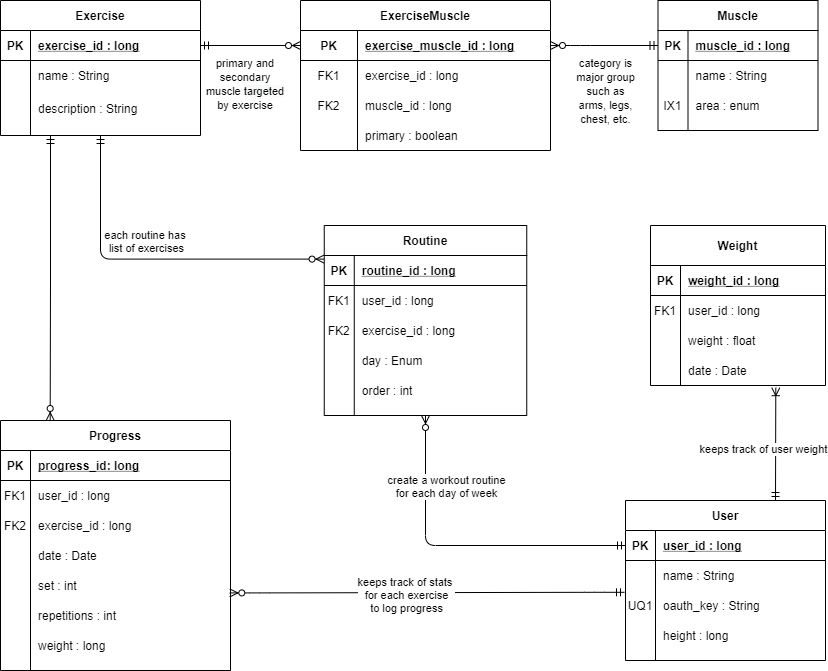
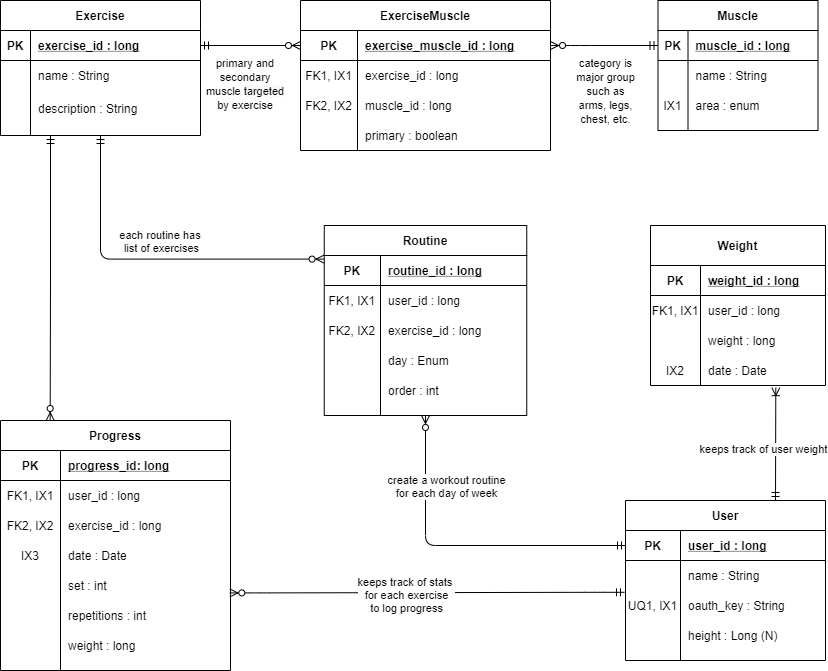
Updated ERD and Weight entity.

diff --git a/app/src/main/java/edu/cnm/deepdive/myworkout/model/entity/Weight.java b/app/src/main/java/edu/cnm/deepdive/myworkout/model/entity/Weight.java
@@ -25,6 +25,7 @@ public class Weight {
   private long weight;
 
   @NonNull
+  @ColumnInfo(index = true)
   private Date date;
 
 
